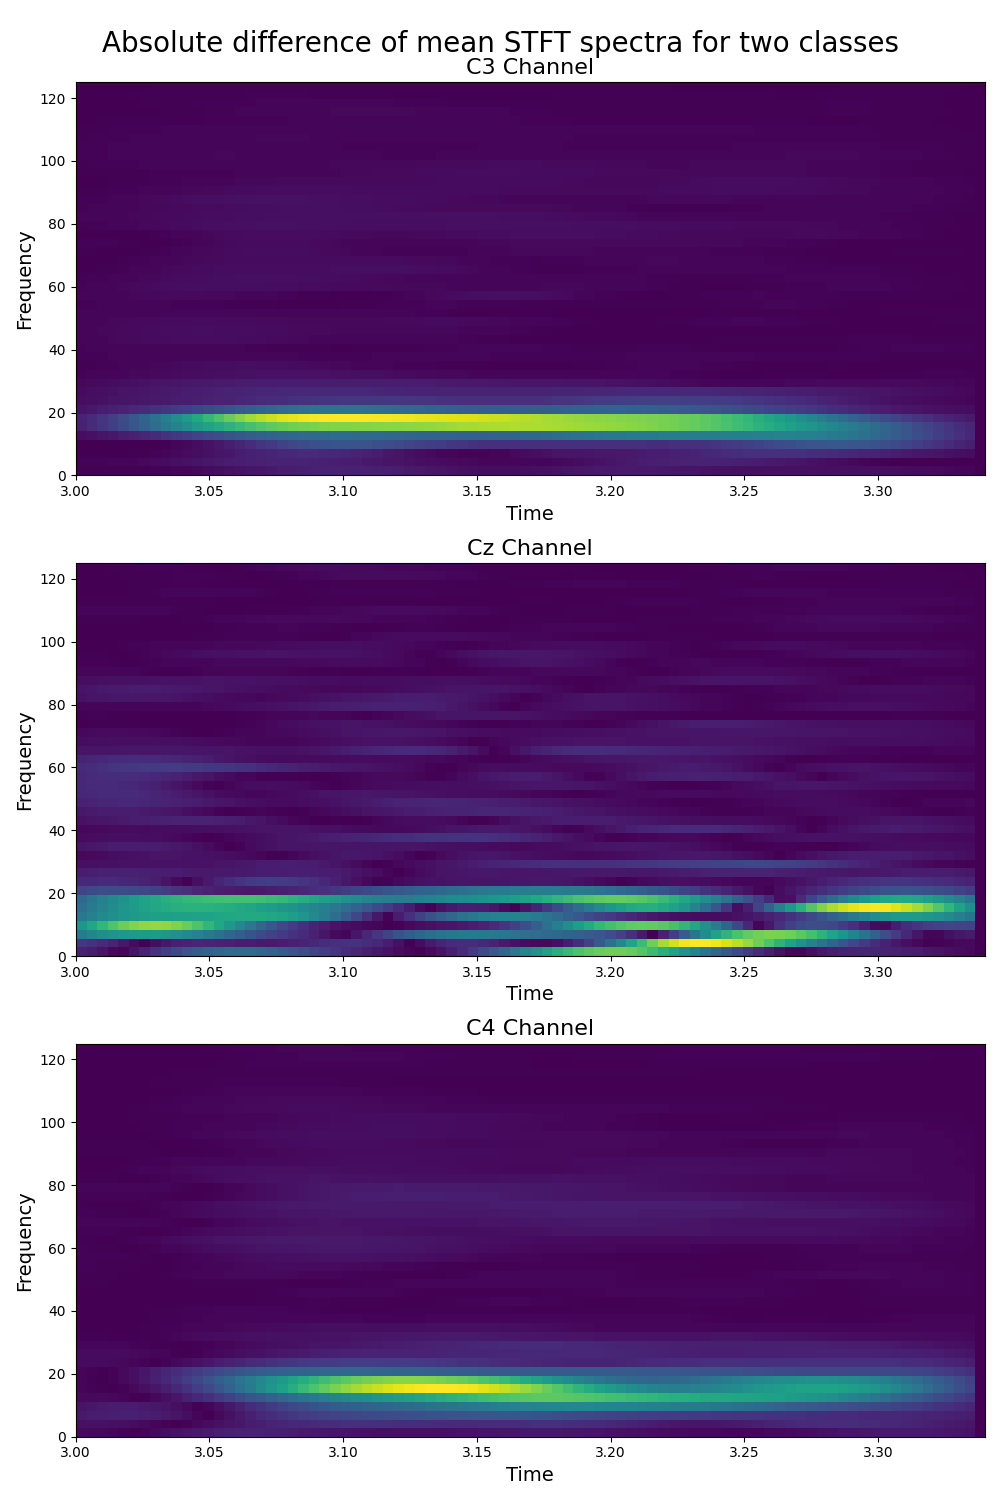
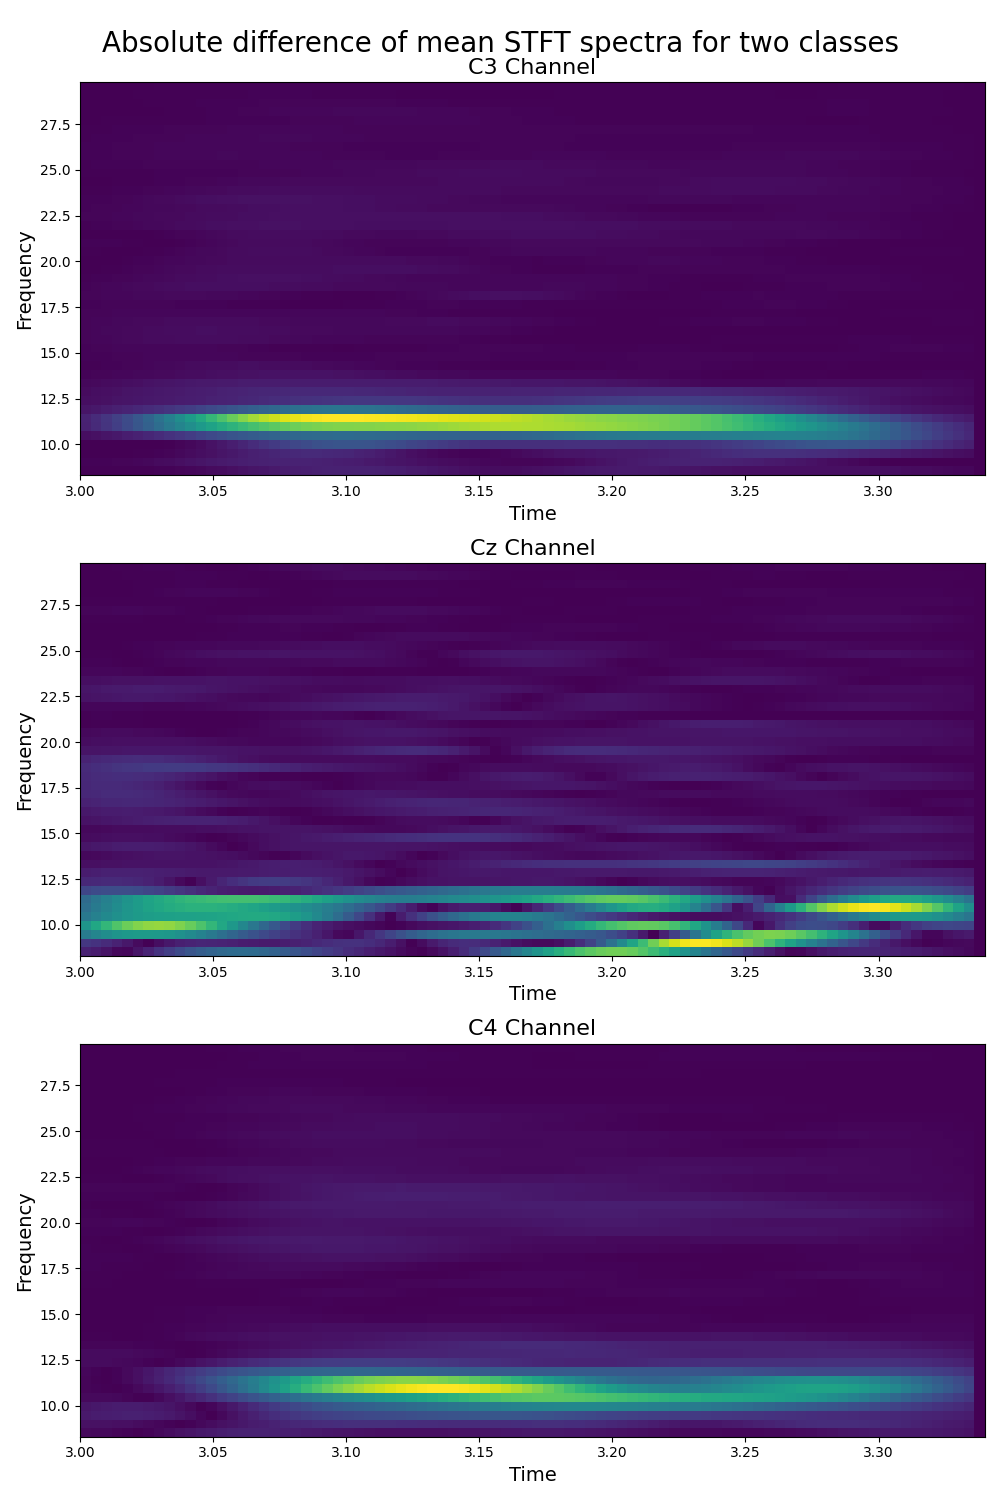
More Visualizations

diff --git a/CWT_CaiT.py b/CWT_CaiT.py
@@ -24,7 +24,7 @@ x_test = x_test.swapaxes(1, 2)
 
 results = []
 # 3.) TRANSFORM TO FREQUENCY DOMAIN
-for wavelet in ["cmorB-C", "morl", "mexh"]:  #TODO Work in Progress
+for wavelet in ["shan1.0-1.0", "cgau6", "cmor2.0-1.0", "morl", "mexh"]:  #TODO Work in Progress
     for density in [10, 20]:
         for segment_size in [2, 5]:
 
@@ -36,6 +36,11 @@ for wavelet in ["cmorB-C", "morl", "mexh"]:  #TODO Work in Progress
             x_train_cwt = densify(x_train_cwt, density)
             x_test_cwt = densify(x_test_cwt, density)
 
+
+            if x_train_cwt.dtype == complex:
+                x_train_cwt = np.abs(x_train_cwt)
+                x_test_cwt = np.abs(x_test_cwt)
+
             # Pad with zeros to make the PSD width divisible by the time segment size
             required_padding = (segment_size - (x_train_cwt.shape[3] % segment_size)) % segment_size
             x_train_cwt = np.pad(x_train_cwt, ((0, 0), (0, 0), (0, 0), (0, required_padding)), mode='constant', constant_values=0)
@@ -43,35 +48,35 @@ for wavelet in ["cmorB-C", "morl", "mexh"]:  #TODO Work in Progress
             visualize(x_train_cwt, np.array([3+ i/250 for i in range(x_train_cwt.shape[-1]*density)]), pywt.scale2frequency(wavelet, np.arange(8, 30))* fs , y_train, "CWT_"+wavelet)
 
             # Grid search the appropriate dimension and dropout for the data format
-            for dim in [256, 128]:
-                for dropout in [0.1, 0.2]:
-                    for emb_dropout in [0.1, 0.2]:
-                        for layer_dropout in [0.1, 0.2]:
-                            v = CaiT(
-                                image_height=x_train_cwt.shape[2],
-                                image_width=x_train_cwt.shape[3],
-                                patch_height=x_train_cwt.shape[2],
-                                patch_width=segment_size,
-                                num_classes=2,
-                                dim=dim,
-                                depth=6, #not super important according to Random Forest
-                                cls_depth=2,  # depth of cross attention of CLS tokens to patch. Unique to CaiT
-                                heads=16, #not super important according to Random Forest
-                                mlp_dim=256, #not super important according to Random Forest
-                                dropout=dropout,
-                                emb_dropout=emb_dropout,
-                                layer_dropout = layer_dropout # Unique to CaiT. Triple regularization
-                            )
 
-                            total_acc, individual_accs = fit_predict(v, x_train_cwt, y_train, x_test_cwt, y_test, IDs, epochs=10, crossval=10)
-                            print("Total Test Accuracy:", total_acc)
-                            result = [wavelet, density, segment_size, dim, dropout, emb_dropout, layer_dropout, total_acc]
-                            # Add individual accuracies to the result list
-                            for subject_id in sorted(individual_accs.keys()):
-                                result.append(individual_accs[subject_id])
+            for dropout in [0.1, 0.2]:
+                for emb_dropout in [0.1, 0.2]:
+                    for layer_dropout in [0.1, 0.2]:
+                        v = CaiT(
+                            image_height=x_train_cwt.shape[2],
+                            image_width=x_train_cwt.shape[3],
+                            patch_height=x_train_cwt.shape[2],
+                            patch_width=segment_size,
+                            num_classes=2,
+                            dim=256, #not super important according to Random Forest
+                            depth=6, #not super important according to Random Forest
+                            cls_depth=2,  # depth of cross attention of CLS tokens to patch. Unique to CaiT
+                            heads=16, #not super important according to Random Forest
+                            mlp_dim=256, #not super important according to Random Forest
+                            dropout=dropout,
+                            emb_dropout=emb_dropout,
+                            layer_dropout = layer_dropout # Unique to CaiT. Triple regularization
+                        )
 
-                            results.append(result)
+                        total_acc, individual_accs = fit_predict(v, x_train_cwt, y_train, x_test_cwt, y_test, IDs, epochs=10, crossval=10)
+                        print("Total Test Accuracy:", total_acc)
+                        result = [wavelet, density, segment_size, dropout, emb_dropout, layer_dropout, total_acc]
+                        # Add individual accuracies to the result list
+                        for subject_id in sorted(individual_accs.keys()):
+                            result.append(individual_accs[subject_id])
+
+                        results.append(result)
 
 # Save the results to a CSV file
-header = ["Wavelet", "Density", "Segment_Size", "Dim", "Dropout", "Emb_Dropout", "Layer_Dropout", "Total_Test_Accuracy"] + [f"Subject_{i}_Accuracy" for i in range(1, 10)]
+header = ["Wavelet", "Density", "Segment_Size", "Dropout", "Emb_Dropout", "Layer_Dropout", "Total_Test_Accuracy"] + [f"Subject_{i}_Accuracy" for i in range(1, 10)]
 save_results_to_csv("Results/CWT.csv", header, results)

diff --git a/STFT_CaiT.py b/STFT_CaiT.py
@@ -40,7 +40,7 @@ for window_size, overlap in [(512, 500), (128, 64)]:
                            constant_values=0)
         Zxx_test = np.pad(Zxx_test, ((0, 0), (0, 0), (0, 0), (0, required_padding)), mode='constant', constant_values=0)
 
-        visualize(Zxx_train, np.array([3 + i / 250 for i in range(Zxx_train.shape[-1])]), f_train,
+        visualize(Zxx_train, np.array([3 + i / 250 for i in range(Zxx_train.shape[-1])]), f_train[mu_beta_band],
                   y_train, "STFT")
         # Grid search the appropriate dimension and dropout for the data format
         for dim in [256, 128]:
